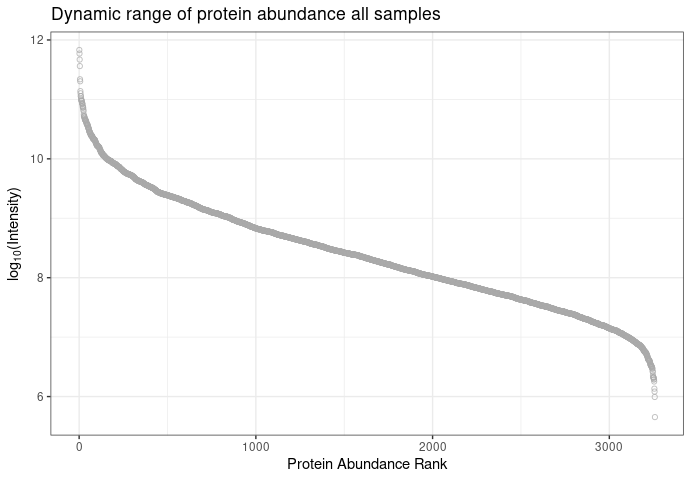
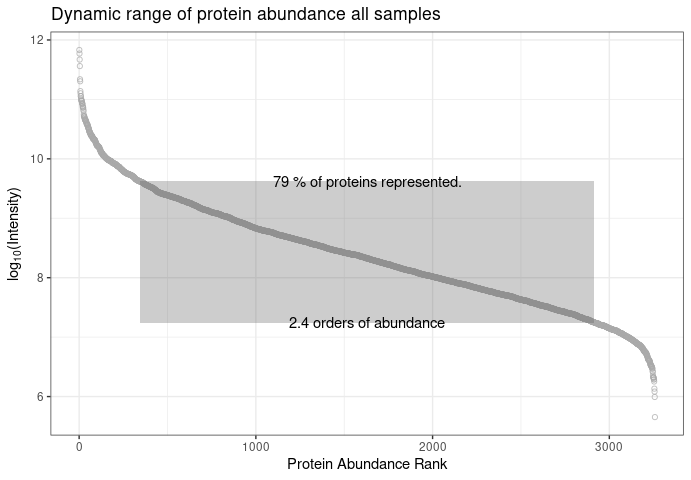
dynamic range finished

Changed region(s): [[0.1823, 0.3438, 0.8813, 0.6875]]

diff --git a/README.md b/README.md
@@ -155,13 +155,13 @@ PlotAcquisitionCycle(msScans)
 <img src="man/figures/README-PlotAcquisition-1.png" width="100%" />
 
 ``` r
-PlotCombinedDynamicRange(proteinGroups)
+PlotCombinedDynamicRange(proteinGroups, show_shade = TRUE, percent_proteins = 0.79)
 ```
 
 <img src="man/figures/README-DynamicRange-1.png" width="100%" />
 
 ``` r
-PLotAllDynamicRange(proteinGroups,columns = 1,rows = 2)
+PLotAllDynamicRange(proteinGroups,show_shade = TRUE, percent_proteins = 0.90,columns = 1,rows = 2)
 ```
 
 <img src="man/figures/README-DynamicRangeAll-1.png" width="100%" /><img src="man/figures/README-DynamicRangeAll-2.png" width="100%" />
